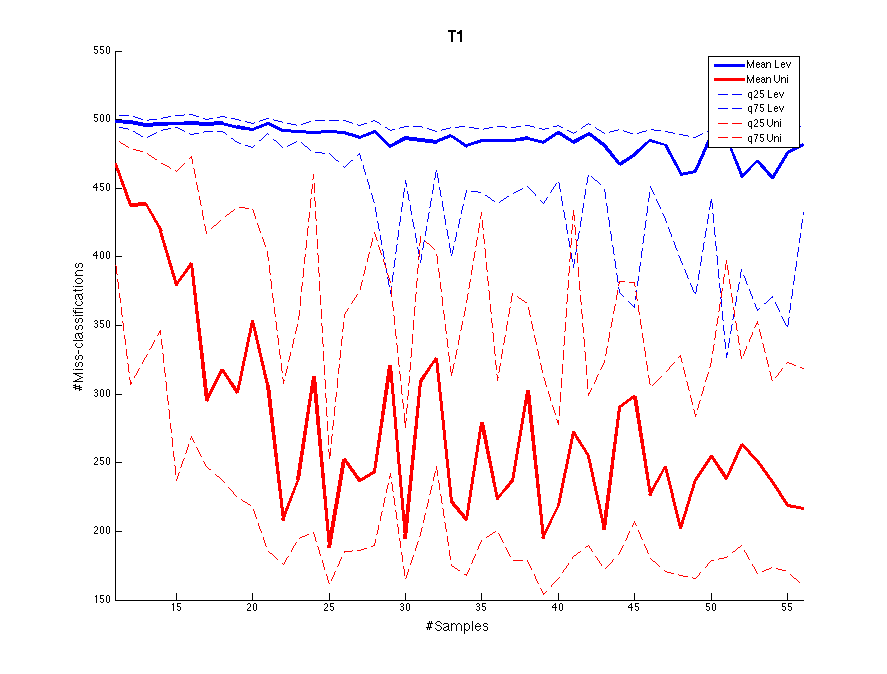
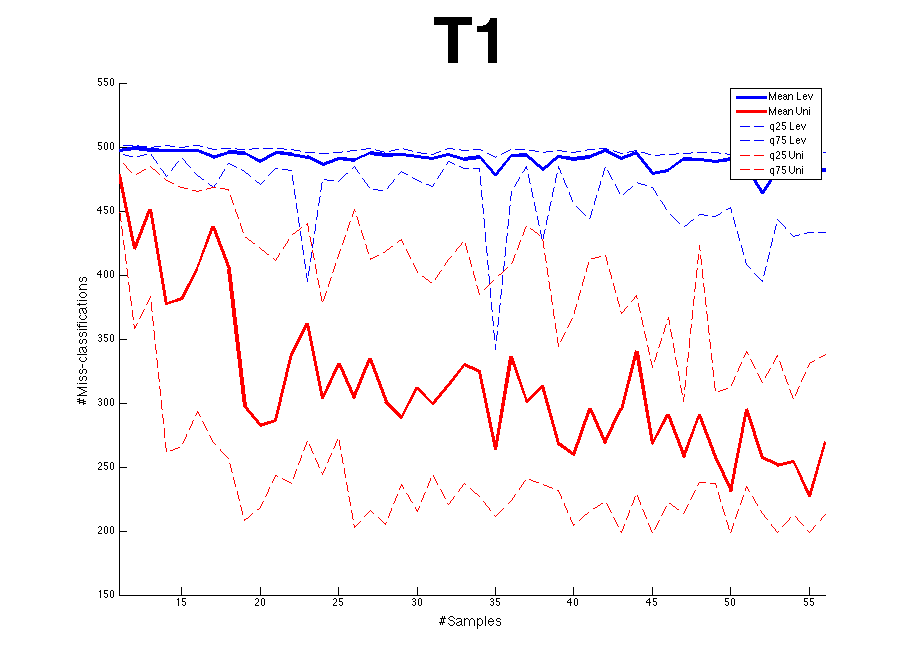
Fucking nice billeder

diff --git a/classification_performance_plots.m b/classification_performance_plots.m
@@ -5,7 +5,7 @@ clc
 
 p = 10; % number of dimensions
 N = 1000; % number of datapoints
-type = 'GA';
+type = 'T3';
 clusterDistribution = 0.5;
 
 distance = 1.3; % manual konstant
